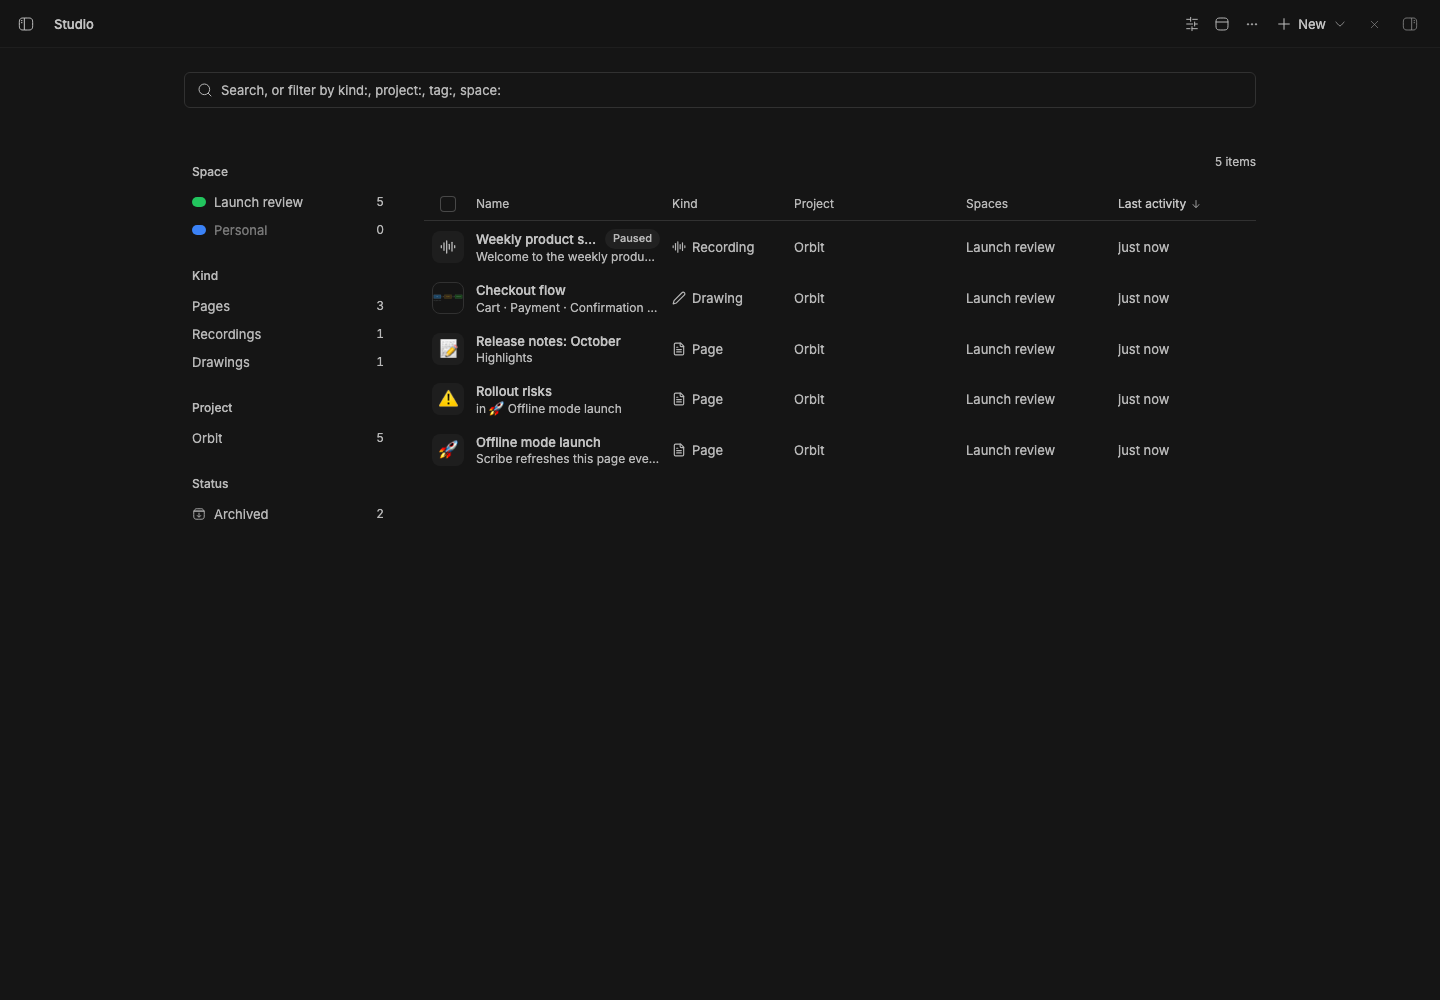
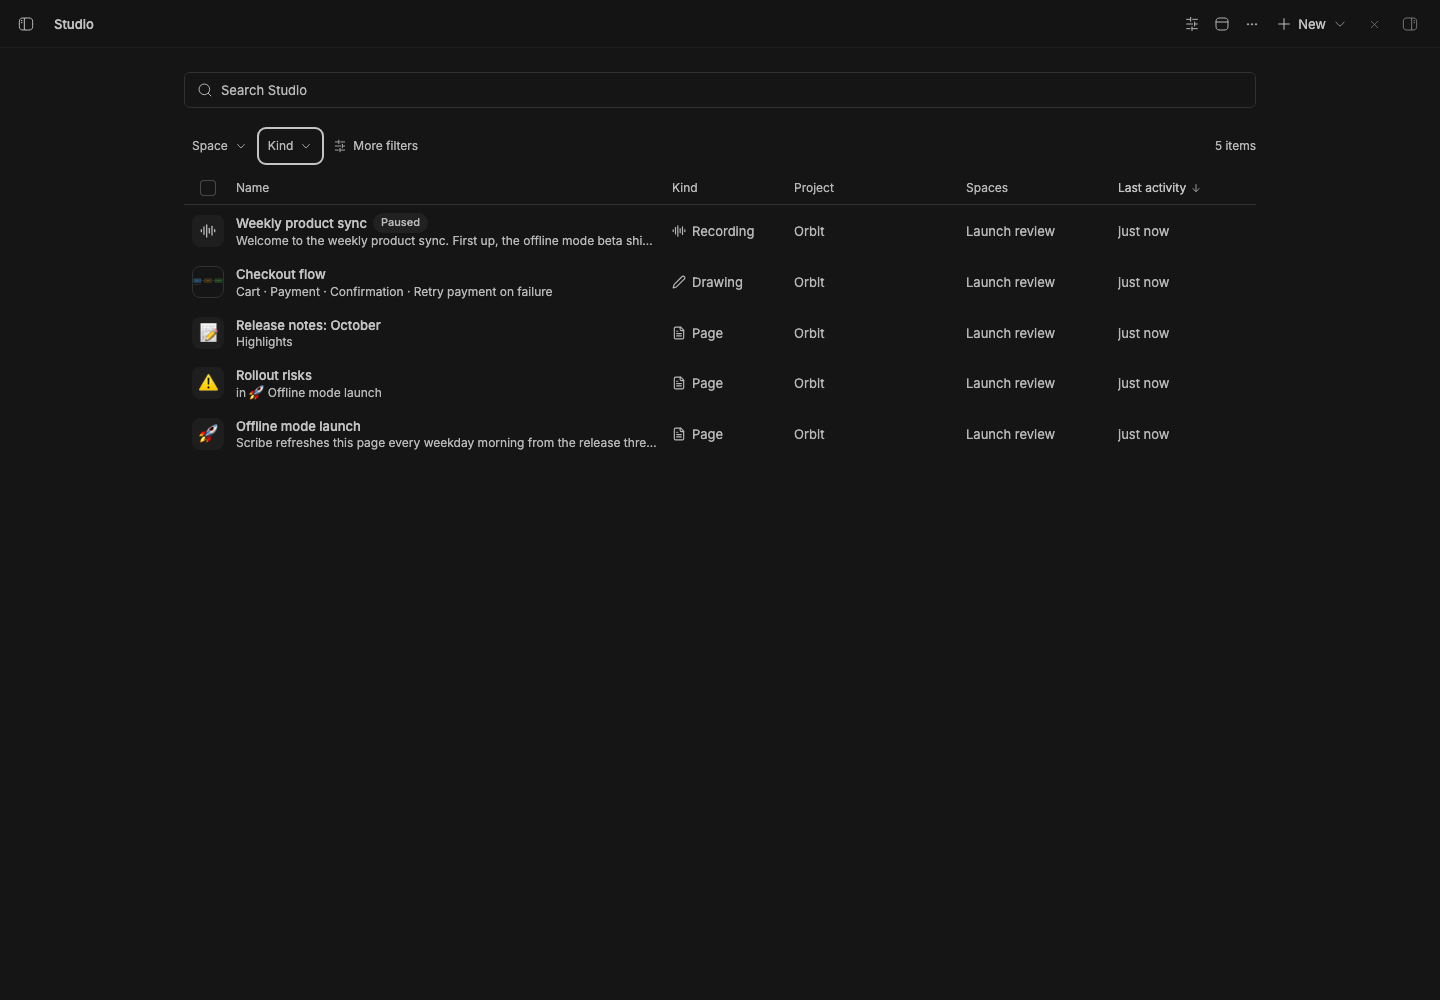
Document and capture the compact Studio filters

diff --git a/packages/bb-studio/README.md b/packages/bb-studio/README.md
@@ -12,9 +12,22 @@ threads into one place, each with an optional lead thread.
 ![Live BB screenshot of the Studio collection](assets/staged-preview.png)
 
 Captured from a staged BB (`node scripts/staged-bb.mjs start`): the Studio
-collection as cards, with the query bar above it and the filter rail beside it.
-The rail counts the seeded items by kind, project and tag. The cards show a
-paused Talk recording, a drawing, three Orbit pages and the staged bots.
+collection as a list, with search and compact Space and Kind menus above it.
+Project, Tags and Status are available under **More filters**. The rows show
+a paused Talk recording, a drawing and three Orbit pages.
+
+![Live BB screenshot of Studio with active filters](assets/filters.png)
+
+Selected filters appear below search, each with a remove button and an explicit
+Include/Exclude menu. Clearing search keeps the filters; **Clear filters** keeps
+the search text. **Save view** remembers the query, and **Views** appears once a
+view exists. Query syntax such as `kind:page` still completes in search.
+
+![Live BB screenshot of Studio filters on mobile](assets/filters-mobile.png)
+
+The same controls work at phone width. Both captures check menu selection,
+a stored plural filter, text search, exclusion, project filtering, and saving
+and reopening a view.
 
 ![Live BB screenshot of the New menu with a Pages filter](assets/new-menu.png)
 
@@ -73,7 +86,7 @@ and [native legacy collection](assets/studio-collection-companion-transfers-nati
   choices are remembered. The column you group by drops out, and a Spaces
   column appears once items belong to spaces. Drawings show thumbnails;
   recordings show their length and word count. Background kinds, such as Talk's dictations, stay
-  out of All and Home; their own pill and search still show them.
+  out of All and Home; the Kind menu and search still show them.
 - **Search from anywhere.** Cmd/Ctrl+Shift+K (or **Studio: Search everything**
   in the command palette, Cmd/Ctrl+Shift+P) opens a quick-open box over any
   page. Studio indexes titles and text from current add-ons, then searches BB threads live. The palette also has recent items and commands for creating items, opening Studio, handing work to an agent and opening threads. Titles match as you type; each add-on also searches its content —
